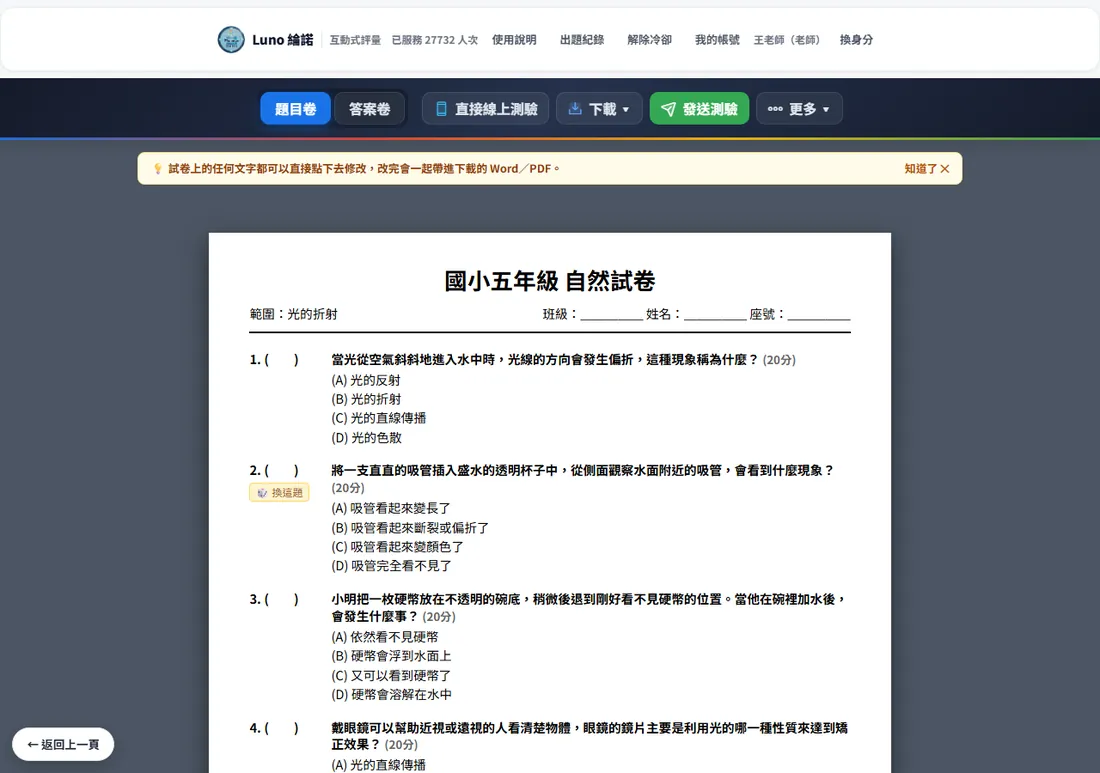
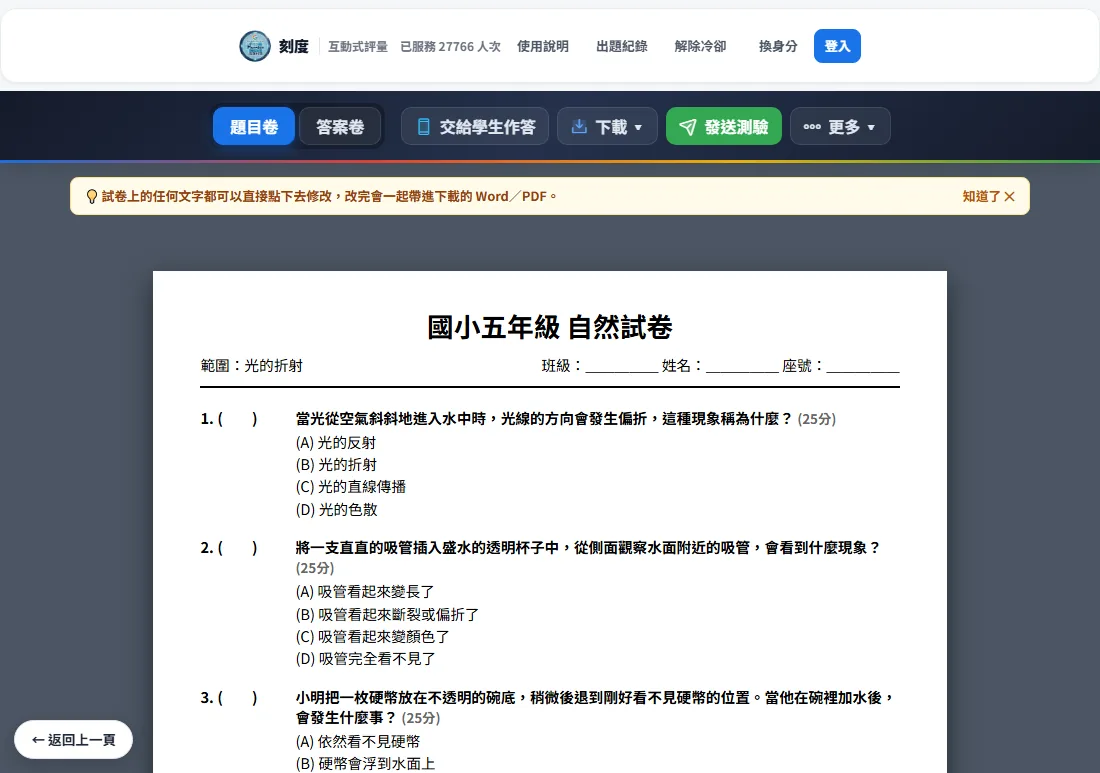
刻度說明書：重拍 result 圖、新增交接模式三張手機圖

diff --git a/public/manual.html b/public/manual.html
@@ -130,7 +130,7 @@
 <!-- ===== 4 ===== -->
 <section class="m-chapter" id="after">
     <h2><span class="m-no">4</span>老師：出完題之後</h2>
-    <figure class="m-fig"><img src="manual/img/result.webp" alt="出好的試卷，上方工具列有題目卷、答案卷、直接線上測驗、下載、發送測驗、更多" loading="lazy" width="1100" height="773"><figcaption>出好的考卷與上方工具列</figcaption></figure>
+    <figure class="m-fig"><img src="manual/img/result.webp" alt="出好的試卷，上方工具列有題目卷、答案卷、交給學生作答、下載、發送測驗、更多" loading="lazy" width="1100" height="773"><figcaption>出好的考卷與上方工具列</figcaption></figure>
     <h3>題目卷與答案卷</h3>
     <p>工具列左邊切換「題目卷」和「答案卷」。答案卷每題都有正確答案和解析。</p>
     <figure class="m-fig"><img src="manual/img/answer-key.webp" alt="答案卷畫面" loading="lazy" width="1100" height="773"><figcaption>答案卷</figcaption></figure>
@@ -183,6 +183,11 @@
         <li>忘記密碼：解鎖時留空直接按確定，改答一題算式（例如 47 × 8）就能解鎖，答案不會直接公開。</li>
         <li>密碼與成績只存在這個畫面裡，重新整理或關掉頁面就會消失。</li>
     </ul>
+    <div class="m-figs">
+        <figure class="m-fig is-phone"><img src="manual/img/handoff-setup.webp" alt="交給學生作答視窗，設定 4 位數密碼與學生暱稱" loading="lazy" width="780" height="1688"><figcaption>設密碼，交給學生</figcaption></figure>
+        <figure class="m-fig is-phone"><img src="manual/img/handoff-done.webp" alt="學生交卷後只看到已交卷，有換下一位同學寫與查看詳解兩個按鈕" loading="lazy" width="780" height="1688"><figcaption>學生交卷後只看到「已交卷」</figcaption></figure>
+        <figure class="m-fig is-phone"><img src="manual/img/handoff-unlocked.webp" alt="家長輸入密碼後，顯示成績名單、每題解析與只重做錯題按鈕" loading="lazy" width="780" height="1688"><figcaption>家長輸入密碼後看成績與解析</figcaption></figure>
+    </div>
     <h3>自己先試寫一次</h3>
     <p>用「交給學生作答」自己當學生寫一遍，確認題目沒問題再發；寫完輸入密碼就能看解析。</p>
 </section>
